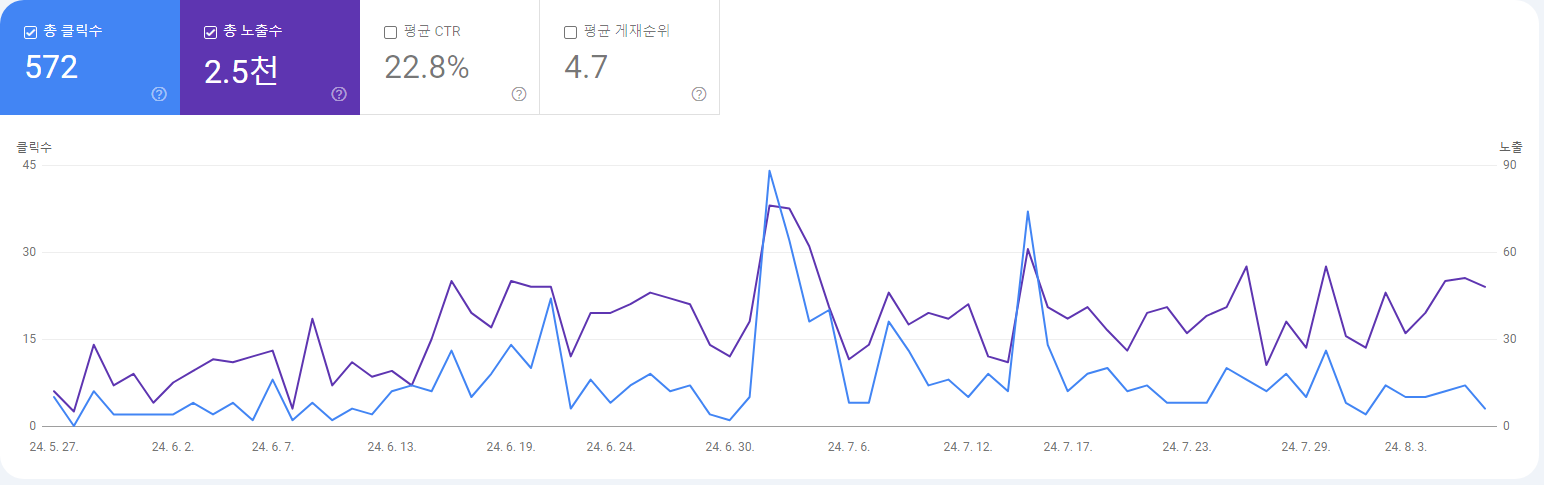
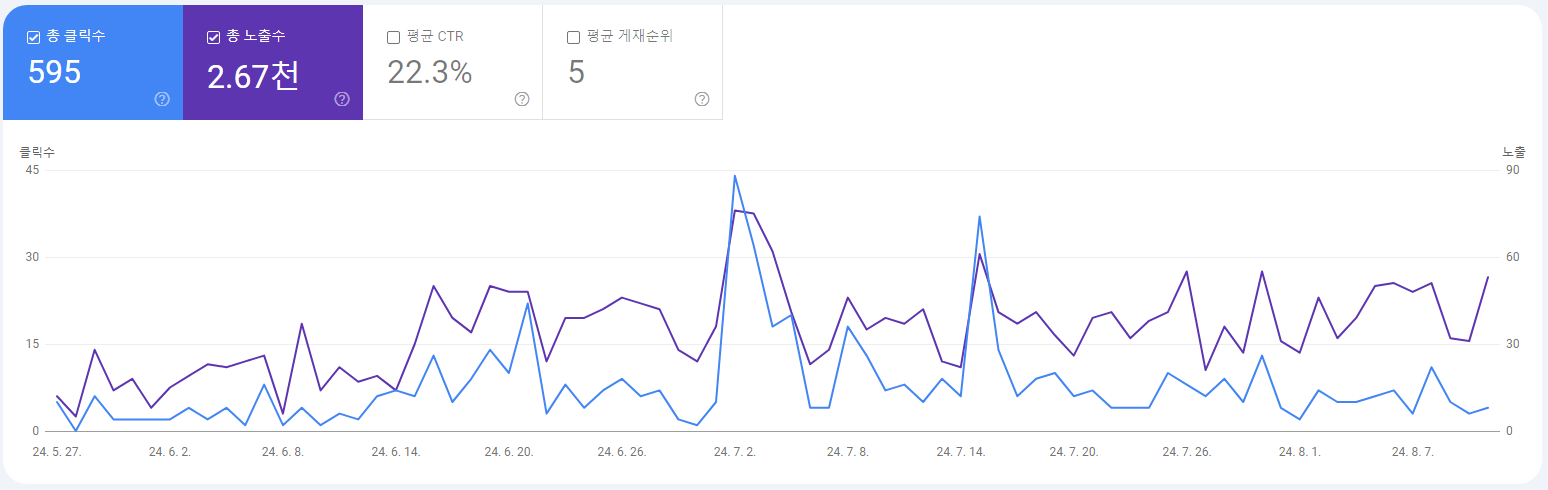
joa hair 컨텐츠 내용 변경, 이력서 업데이트

diff --git a/src/app/(menu)/about/page.tsx b/src/app/(menu)/about/page.tsx
@@ -55,7 +55,7 @@ export default function Page() {
             </p>
             <div className={styles['resume-link-container']}>
               <a
-                href="https://acrobat.adobe.com/id/urn:aaid:sc:AP:7fc73492-01ff-4a02-b5c8-1fea0f92b1ae"
+                href="https://acrobat.adobe.com/id/urn:aaid:sc:AP:468382ae-87a8-422f-839a-c39cfceef48d"
                 target="_blank"
                 rel="noopener noreferrer"
                 className={styles['resume-link-text']}
